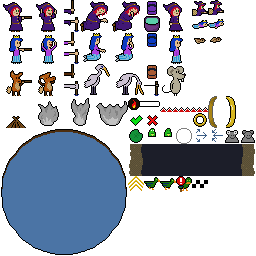
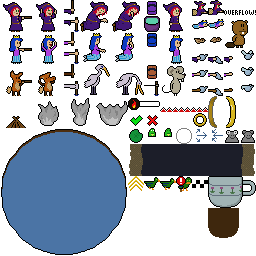
pouring contest -- one hundredth battle!

Changed region(s): [[0.8125, 0.6875, 1.0, 0.9375], [0.875, 0.0312, 1.0, 0.375], [0.75, 0.1875, 0.9062, 0.375]]

diff --git a/src/game/battle/battle_pouring.c b/src/game/battle/battle_pouring.c
@@ -1,0 +1,290 @@
+/* battle_pouring.c
+ */
+
+#include "game/bellacopia.h"
+
+#define PLAYER_STATE_READY 0
+#define PLAYER_STATE_POUR 1
+#define PLAYER_STATE_DONE 2
+
+struct battle_pouring {
+  struct battle hdr;
+  
+  struct player {
+    int who; // My index in this list.
+    int human; // 0 for CPU, or the input index.
+    double skill; // 0..1, reverse of each other.
+    uint32_t color;
+    uint8_t tileid_body; // 2x2
+    uint8_t tileid_arm; // Single, 3 options arranged horizontally: idle, pour, done
+    int blackout;
+    int inpour;
+    int state; // PLAYER_STATE_*
+    double tptime; // Flying teapot time, seconds, counting up.
+    double animclock;
+    int animframe;
+    double fill; // Pixels, 0..30
+    int overflow;
+    double startdelay; // cpu
+    double cpufill; // cpu
+  } playerv[2];
+};
+
+#define BATTLE ((struct battle_pouring*)battle)
+
+/* Delete.
+ */
+ 
+static void _pouring_del(struct battle *battle) {
+}
+
+/* Init player.
+ */
+ 
+static void player_init(struct battle *battle,struct player *player,int human,int face) {
+  if (player==BATTLE->playerv) { // Left.
+    player->who=0;
+  } else { // Right.
+    player->who=1;
+  }
+  if (player->human=human) { // Human.
+    player->blackout=1;
+  } else { // CPU.
+    player->startdelay=0.250+1.000*((rand()&0xffff)/65535.0);
+    // Sometimes, randomly, the CPU will overflow. So humans shouldn't just watch him and release right after.
+    int spillodds=(int)(0x8000*(1.0-player->skill)+0x2000*player->skill);
+    if ((rand()&0xffff)<spillodds) {
+      player->cpufill=35.0;
+    } else {
+      player->cpufill=20.0*(1.0-player->skill)+29.0*player->skill;
+    }
+  }
+  switch (face) {
+    case NS_face_monster: {
+        player->color=0x8d5f1fff;
+        player->tileid_body=0x1e;
+        player->tileid_arm=0x5c;
+      } break;
+    case NS_face_dot: {
+        player->color=0x411775ff;
+        player->tileid_body=0x0a;
+        player->tileid_arm=0x3c;
+      } break;
+    case NS_face_princess: {
+        player->color=0x0d3ac1ff;
+        player->tileid_body=0x2a;
+        player->tileid_arm=0x4c;
+      } break;
+  }
+}
+
+/* New.
+ */
+ 
+static int _pouring_init(struct battle *battle) {
+  battle_normalize_bias(&BATTLE->playerv[0].skill,&BATTLE->playerv[1].skill,battle);
+  player_init(battle,BATTLE->playerv+0,battle->args.lctl,battle->args.lface);
+  player_init(battle,BATTLE->playerv+1,battle->args.rctl,battle->args.rface);
+  return 0;
+}
+
+/* Update human player.
+ */
+ 
+static void player_update_man(struct battle *battle,struct player *player,double elapsed,int input) {
+  if (player->blackout) {
+    if (!(input&EGG_BTN_SOUTH)) player->blackout=0;
+  } else {
+    player->inpour=(input&EGG_BTN_SOUTH);
+  }
+}
+
+/* Update CPU player.
+ */
+ 
+static void player_update_cpu(struct battle *battle,struct player *player,double elapsed) {
+  if (player->startdelay>0.0) {
+    player->startdelay-=elapsed;
+  } else if (player->fill<player->cpufill) {
+    player->inpour=1;
+  } else {
+    player->inpour=0;
+  }
+}
+
+/* Update all players, after specific controller.
+ */
+ 
+static void player_update_common(struct battle *battle,struct player *player,double elapsed) {
+  switch (player->state) {
+    case PLAYER_STATE_READY: {
+        if (player->inpour) {
+          // Begin pouring.
+          player->state=PLAYER_STATE_POUR;
+        }
+      } break;
+    case PLAYER_STATE_POUR: {
+        if (!player->inpour) {
+          // Stop pouring.
+          player->state=PLAYER_STATE_DONE;
+        } else {
+          player->fill+=elapsed*10.0;
+          if (player->fill>30.0) {
+            player->state=PLAYER_STATE_DONE;
+            player->overflow=1;
+          }
+        }
+      } break;
+    case PLAYER_STATE_DONE: {
+        player->tptime+=elapsed;
+        if ((player->animclock-=elapsed)<=0.0) {
+          player->animclock+=0.150;
+          if (++(player->animframe)>=4) player->animframe=0;
+        }
+      } break;
+  }
+}
+
+/* Update.
+ */
+ 
+static void _pouring_update(struct battle *battle,double elapsed) {
+  
+  struct player *player=BATTLE->playerv;
+  int i=2;
+  for (;i-->0;player++) {
+    if (player->human) player_update_man(battle,player,elapsed,g.input[player->human]);
+    else player_update_cpu(battle,player,elapsed);
+    player_update_common(battle,player,elapsed);
+  }
+  
+  if (battle->outcome==-2) {
+    struct player *l=BATTLE->playerv;
+    struct player *r=l+1;
+    if ((l->state==PLAYER_STATE_DONE)&&(r->state==PLAYER_STATE_DONE)) {
+      if (l->overflow&&r->overflow) battle->outcome=0; // Both overflowed: tie
+      else if (l->overflow) battle->outcome=-1; // One overflowed: other wins
+      else if (r->overflow) battle->outcome=1;
+      else if (l->fill>r->fill) battle->outcome=1; // Most tea wins
+      else if (l->fill<r->fill) battle->outcome=-1;
+      else battle->outcome=0; // Identical pours. Narrowly possible.
+    }
+  }
+}
+
+/* Render player.
+ */
+ 
+static void player_render(struct battle *battle,struct player *player) {
+
+  /* Choose some layout parameters based on (who).
+   */
+  int xback,xfront,xarm;
+  int ytop,ybottom,yarm;
+  uint8_t xform;
+  if (player->who) {
+    xform=EGG_XFORM_XREV;
+    xfront=(FBW*2)/3+7;
+    xback=xfront+NS_sys_tilesize;
+    xarm=xfront-3;
+  } else {
+    xform=0;
+    xfront=FBW/3-7;
+    xback=xfront-NS_sys_tilesize;
+    xarm=xfront+3;
+  }
+  ybottom=FBH>>1;
+  ytop=ybottom-NS_sys_tilesize;
+  yarm=ybottom-8;
+  if (player->tileid_body==0x1e) yarm+=2; // Beaver prefers a lower arm
+  uint8_t tileid_arm=player->tileid_arm;
+  switch (player->state) {
+    case PLAYER_STATE_POUR: tileid_arm+=1; break;
+    case PLAYER_STATE_DONE: tileid_arm+=2; break;
+  }
+  
+  graf_tile(&g.graf,xarm,yarm,tileid_arm,xform);
+  graf_tile(&g.graf,xback,ytop,player->tileid_body,xform);
+  graf_tile(&g.graf,xfront,ytop,player->tileid_body+1,xform);
+  graf_tile(&g.graf,xback,ybottom,player->tileid_body+0x10,xform);
+  graf_tile(&g.graf,xfront,ybottom,player->tileid_body+0x11,xform);
+  
+  // Flying teapot.
+  if (player->state==PLAYER_STATE_DONE) {
+    int tpx=(int)(xarm+player->tptime*10.0*(player->who?-1.0:1.0));
+    int tpy=(int)(yarm-player->tptime*40.0);
+    uint8_t tileid=0x3f;
+    switch (player->animframe) {
+      case 1: tileid+=0x10; break;
+      case 2: tileid+=0x20; break;
+      case 3: tileid+=0x10; break;
+    }
+    graf_tile(&g.graf,tpx,tpy,tileid,xform);
+  }
+  
+  // Teacup.
+  int tcy=ybottom+NS_sys_tilesize;
+  int tcx;
+  if (player->who) {
+    tcx=xfront-NS_sys_tilesize*2-(NS_sys_tilesize>>1)-1;
+    graf_tile(&g.graf,xfront-NS_sys_tilesize*1,tcy,0xbd,EGG_XFORM_XREV);
+    graf_tile(&g.graf,xfront-NS_sys_tilesize*2,tcy,0xbe,EGG_XFORM_XREV);
+    graf_tile(&g.graf,xfront-NS_sys_tilesize*3,tcy,0xbf,EGG_XFORM_XREV);
+    graf_tile(&g.graf,xfront-NS_sys_tilesize*1,tcy+NS_sys_tilesize,0xcd,EGG_XFORM_XREV);
+    graf_tile(&g.graf,xfront-NS_sys_tilesize*2,tcy+NS_sys_tilesize,0xce,EGG_XFORM_XREV);
+    graf_tile(&g.graf,xfront-NS_sys_tilesize*3,tcy+NS_sys_tilesize,0xcf,EGG_XFORM_XREV);
+  } else {
+    tcx=xfront+(NS_sys_tilesize>>1)+2;
+    graf_tile(&g.graf,xfront+NS_sys_tilesize*1,tcy,0xbd,0);
+    graf_tile(&g.graf,xfront+NS_sys_tilesize*2,tcy,0xbe,0);
+    graf_tile(&g.graf,xfront+NS_sys_tilesize*3,tcy,0xbf,0);
+    graf_tile(&g.graf,xfront+NS_sys_tilesize*1,tcy+NS_sys_tilesize,0xcd,0);
+    graf_tile(&g.graf,xfront+NS_sys_tilesize*2,tcy+NS_sys_tilesize,0xce,0);
+    graf_tile(&g.graf,xfront+NS_sys_tilesize*3,tcy+NS_sys_tilesize,0xcf,0);
+  }
+  int h=(int)player->fill;
+  if (h>0) {
+    if (h>30) h=30;
+    graf_decal(&g.graf,tcx,tcy-(NS_sys_tilesize>>1)+30-h,208,208+30-h,32,h);
+    // And if it overflowed, an extra indicator:
+    if (player->overflow) {
+      graf_set_tint(&g.graf,(player->animframe&2)?0xff0000ff:0xffff00ff);
+      graf_decal(&g.graf,tcx,tcy-24,224,0,32,16);
+      graf_set_tint(&g.graf,0);
+    }
+  }
+}
+
+/* Render.
+ */
+ 
+static void _pouring_render(struct battle *battle) {
+  graf_fill_rect(&g.graf,0,0,FBW,FBH,battle->ctab[BATTLE_COLOR_SKY]);
+  struct player *l=BATTLE->playerv;
+  struct player *r=l+1;
+  graf_set_image(&g.graf,RID_image_battle_forest);
+  player_render(battle,l);
+  player_render(battle,r);
+}
+
+/* Type definition.
+ */
+ 
+const struct battle_type battle_type_pouring={
+  .name="pouring",
+  .objlen=sizeof(struct battle_pouring),
+  .id=NS_battle_pouring,
+  .strix_name=328,
+  .no_article=0,
+  .no_contest=0,
+  .no_timeout=0,
+  .support_pvp=1,
+  .support_cvc=1,
+  .update_during_report=1,
+  .input=battle_input_a,
+  .imageid_default=RID_image_mountains,
+  .del=_pouring_del,
+  .init=_pouring_init,
+  .update=_pouring_update,
+  .render=_pouring_render,
+};

diff --git a/src/game/shared_symbols.h b/src/game/shared_symbols.h
@@ -523,6 +523,7 @@
 #define NS_battle_ceilingtouching 97
 #define NS_battle_balancing 98
 #define NS_battle_bodyslam 99
+#define NS_battle_pouring 100
 #define FOR_EACH_battle \
   _(fishing) \
   _(chopping) \
@@ -622,7 +623,8 @@
   _(dodging) \
   _(ceilingtouching) \
   _(balancing) \
-  _(bodyslam)
+  _(bodyslam) \
+  _(pouring)
 
 /* "fld" are single bits.
  */

diff --git a/src/game/zoo.c b/src/game/zoo.c
@@ -54,7 +54,7 @@ static const struct zoo_resident zoo5v[]={
 
 // Mountains
 static const struct zoo_resident zoo6v[]={
-  {NS_fld_zoo6_0,RID_sprite_leopard},//XXX
+  {NS_fld_zoo6_0,RID_sprite_beaver},
   {NS_fld_zoo6_1,RID_sprite_sparrow},
   {NS_fld_zoo6_2,RID_sprite_goat},
   {NS_fld_zoo6_3,RID_sprite_wolf},

diff --git a/src/game/modal/modal_arcade.c b/src/game/modal/modal_arcade.c
@@ -8,7 +8,7 @@
 
 #include "game/bellacopia.h"
 
-#define PRESELECT_BATTLE NS_battle_bodyslam
+#define PRESELECT_BATTLE NS_battle_pouring
 
 #define ROWC 20 /* FBH / font height */
 #define KEY_REPEAT_INITIAL 0.250
